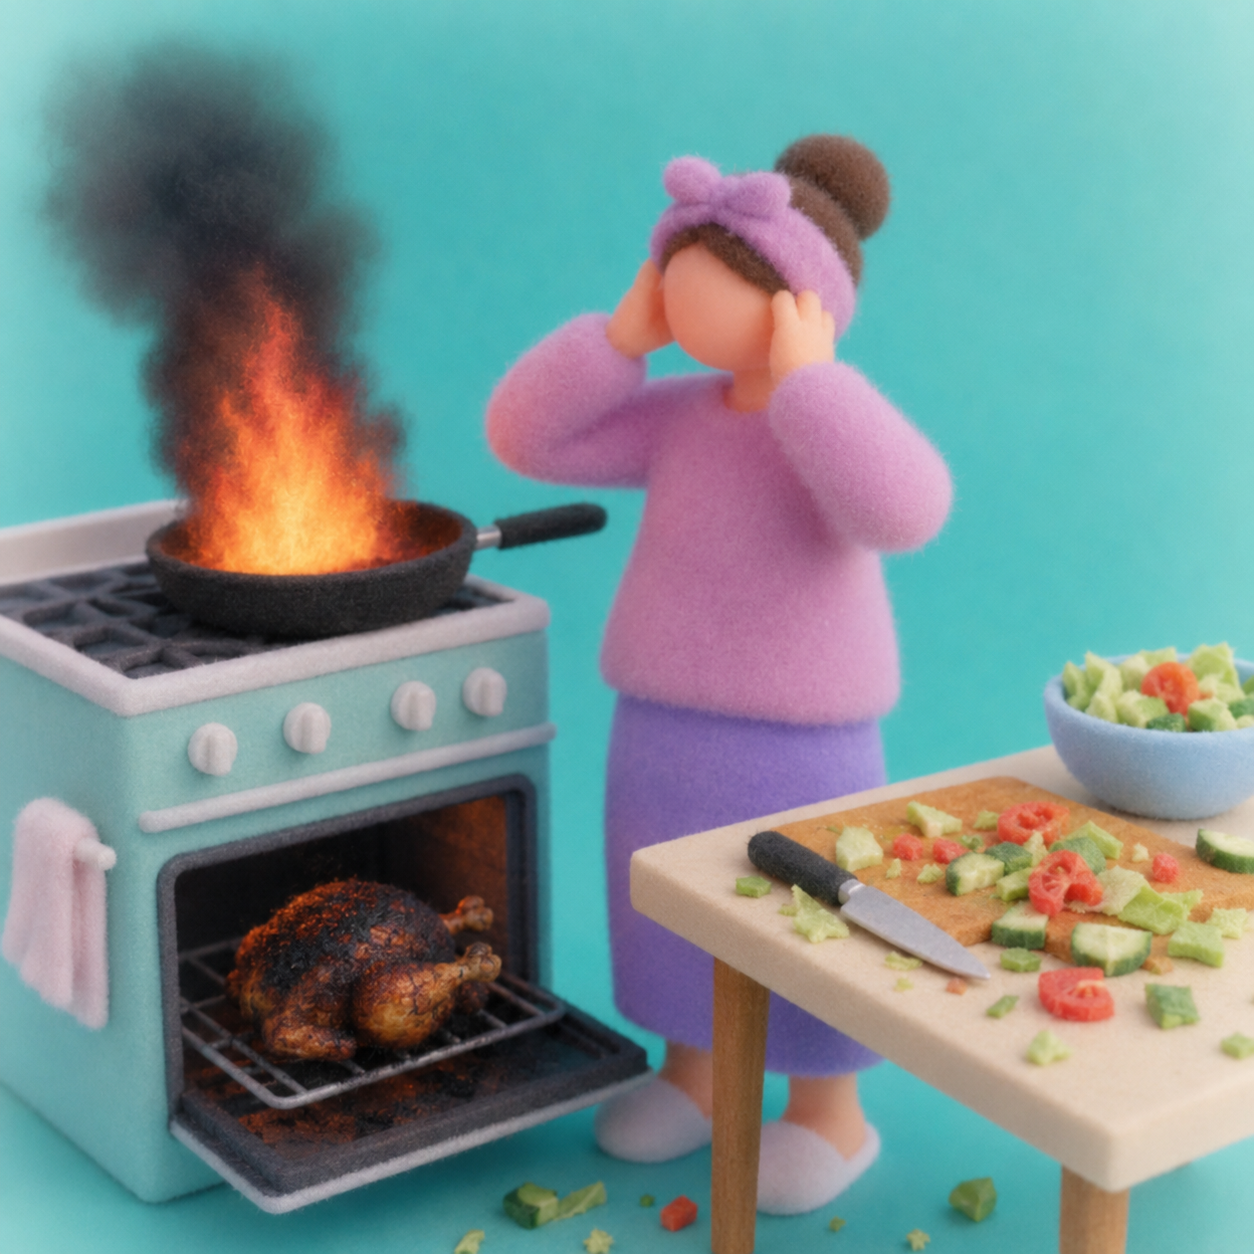
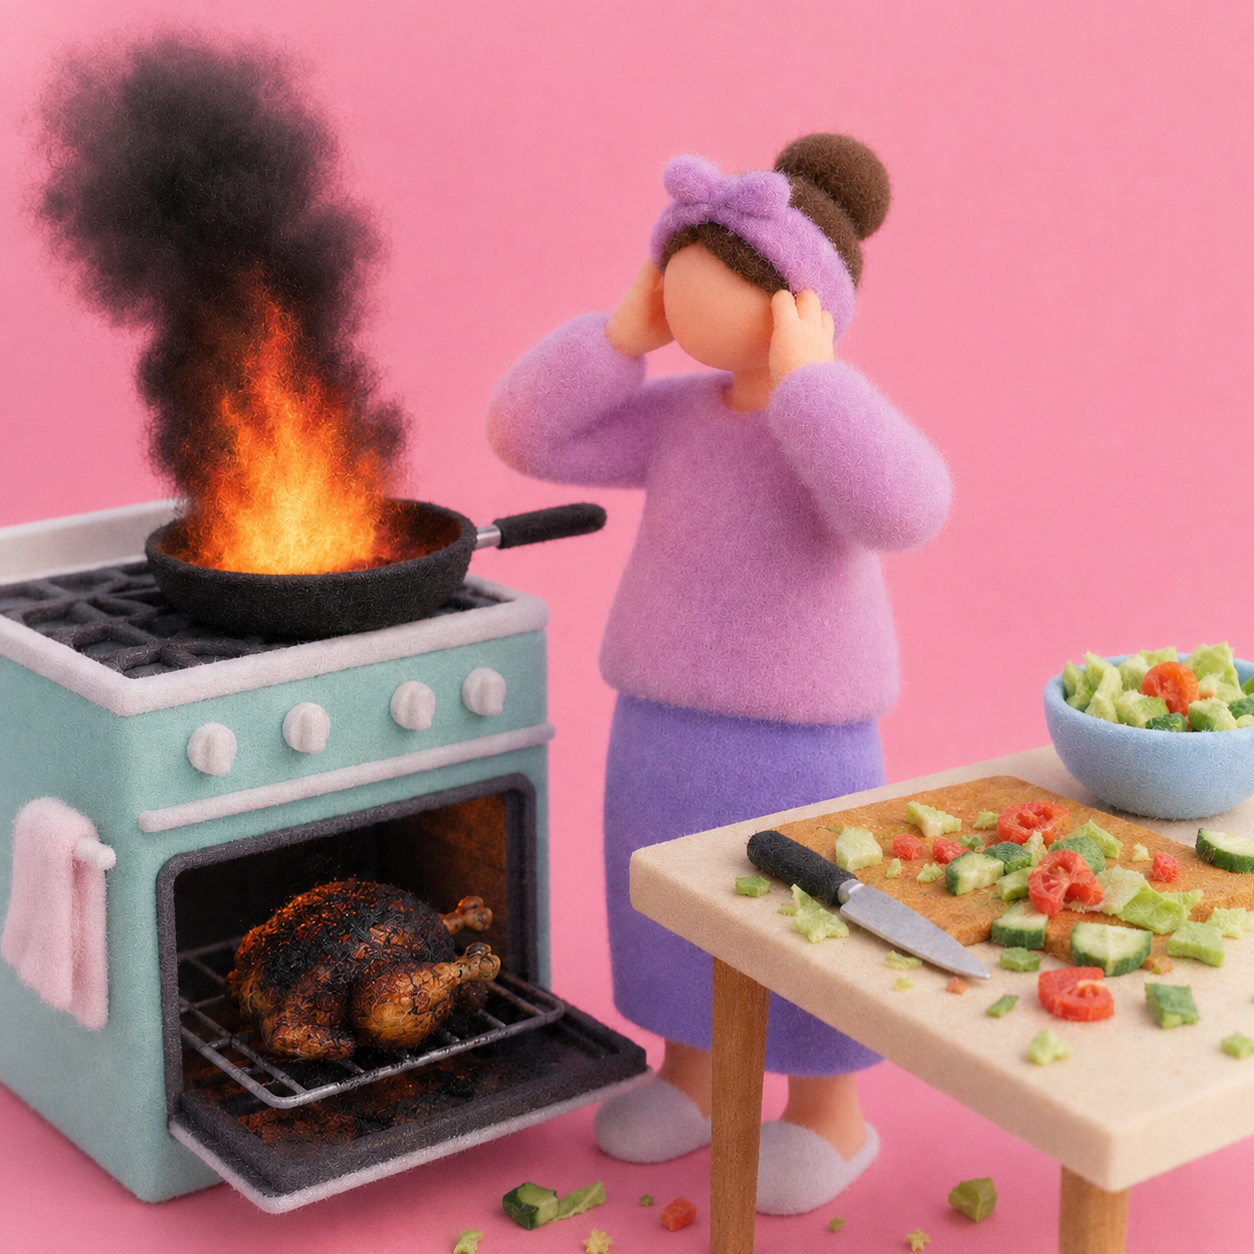
guides covers added

diff --git a/src/pages/guides/guides_covers.css b/src/pages/guides/guides_covers.css
@@ -138,24 +138,45 @@
 .druzya-vo-vzroslom-vozraste {
   background-image: url(../../images/guides/druzya-vo-vzroslom-vozraste.png);
 }
-.oformlenie-inn {
-  background-image: url(../../images/guides/oformlenie-inn.png);
+.byudzhet-na-pereezd-puteshestvie-ili-krupnuyu-pokupku {
+  background-image: url(../../images/guides/byudzhet-na-pereezd-puteshestvie-ili-krupnuyu-pokupku.png);
 }
-.oformlenie-inn {
-  background-image: url(../../images/guides/oformlenie-inn.png);
+.kak-vesti-byudzhet {
+  background-image: url(../../images/guides/kak-vesti-byudzhet.png);
 }
-.oformlenie-inn {
-  background-image: url(../../images/guides/oformlenie-inn.png);
+.kreditka-bez-procentov {
+  background-image: url(../../images/guides/kreditka-bez-procentov.png);
 }
-.oformlenie-inn {
-  background-image: url(../../images/guides/oformlenie-inn.png);
+.moshenniki-v-internete {
+  background-image: url(../../images/guides/moshenniki-v-internete.png);
 }
-.oformlenie-inn {
-  background-image: url(../../images/guides/oformlenie-inn.png);
+.chitaem-vypisku-po-karte {
+  background-image: url(../../images/guides/chitaem-vypisku-po-karte.png);
 }
-.oformlenie-inn {
-  background-image: url(../../images/guides/oformlenie-inn.png);
+.kak-nachat-otkladyvat {
+  background-image: url(../../images/guides/kak-nachat-otkladyvat.png);
 }
-.oformlenie-inn {
-  background-image: url(../../images/guides/oformlenie-inn.png);
+.pervaya-debetovaya-karta {
+  background-image: url(../../images/guides/pervaya-debetovaya-karta.png);
+}
+.kak-poschitat-svoj-realnyj-dohod-v-chas {
+  background-image: url(../../images/guides/kak-poschitat-svoj-realnyj-dohod-v-chas.png);
+}
+.kak-vybrat-kvartiru-i-ne-pozhalet-cherez-mesyac {
+  background-image: url(../../images/guides/kak-vybrat-kvartiru-i-ne-pozhalet-cherez-mesyac.png);
+}
+.oplachivaem-kommunalku-onlajn {
+  background-image: url(../../images/guides/oplachivaem-kommunalku-onlajn.png);
+}
+.bytovaya-himiya {
+  background-image: url(../../images/guides/bytovaya-himiya.png);
+}
+.zima-v-kvartire {
+  background-image: url(../../images/guides/zima-v-kvartire.png);
+}
+.zavesti-pitomca {
+  background-image: url(../../images/guides/zavesti-pitomca.png);
+}
+.sdacha-kvartiry-v-arendu {
+  background-image: url(../../images/guides/sdacha-kvartiry-v-arendu.png);
 }

diff --git a/src/pages/guides/guides_pages/byudzhet-na-pereezd-puteshestvie-ili-krupnuyu-pokupku.html b/src/pages/guides/guides_pages/byudzhet-na-pereezd-puteshestvie-ili-krupnuyu-pokupku.html
@@ -1,0 +1,34 @@
+<!DOCTYPE html>
+<html lang="ru">
+<head>
+  <analitics></analitics>
+  <meta charset="UTF-8">
+  <meta name="viewport" content="width=device-width, initial-scale=1.0">
+  <title>Easily — Бюджет на переезд, путешествие или крупную покупку</title>
+  <meta name="description" content="Разберем на примерах, как считать правильно, на чем можно сэкономить без ущерба и как вообще подружить финансовую подушку с конкретной целью.">
+  <meta property="og:title" content="Easily — Бюджет на переезд, путешествие или крупную покупку">
+  <meta property="og:description" content="Разберем на примерах, как считать правильно, на чем можно сэкономить без ущерба и как вообще подружить финансовую подушку с конкретной целью.">
+  <meta name="twitter:title" content="Easily — Бюджет на переезд, путешествие или крупную покупку">
+  <meta name="twitter:description" content="Разберем на примерах, как считать правильно, на чем можно сэкономить без ущерба и как вообще подружить финансовую подушку с конкретной целью.">
+  <meta property="og:type" content="website">
+  <meta property="og:image" content="https://raw.githubusercontent.com/HSEADC/easily/refs/heads/main/src/images/meta_cover.webp">
+  <meta property="og:image:width" content="1200">
+  <meta property="og:image:height" content="630">
+  <meta property="og:site_name" content="Easily">
+  <meta property="og:locale" content="ru_RU">
+  <meta name="twitter:card" content="summary_large_image">
+  <meta name="twitter:image" content="https://raw.githubusercontent.com/HSEADC/easily/refs/heads/main/src/images/meta_cover.webp">
+  <link rel="icon" type="image/svg+xml" href="../../../images/logo.svg">
+  <link rel="canonical" href="https://easily.adc.ac/">
+</head>
+<body>
+  <headerPartial></headerPartial>
+
+  <main class="O_main">
+
+  </main>
+
+  <footerPartial></footerPartial>
+
+</body>
+</html>

diff --git a/src/pages/guides/guides_pages/kak-poschitat-svoj-realnyj-dohod-v-chas.html b/src/pages/guides/guides_pages/kak-poschitat-svoj-realnyj-dohod-v-chas.html
@@ -1,0 +1,34 @@
+<!DOCTYPE html>
+<html lang="ru">
+<head>
+  <analitics></analitics>
+  <meta charset="UTF-8">
+  <meta name="viewport" content="width=device-width, initial-scale=1.0">
+  <title>Easily — Как посчитать свой реальный доход в час</title>
+  <meta name="description" content="Вы думаете, что зарабатываете 60 000? А давайте проверим. Посчитайте свой реальный доход в час с учётом всех скрытых трат времени и поймите, сколько вы на самом деле стоите.">
+  <meta property="og:title" content="Easily — Как посчитать свой реальный доход в час">
+  <meta property="og:description" content="Вы думаете, что зарабатываете 60 000? А давайте проверим. Посчитайте свой реальный доход в час с учётом всех скрытых трат времени и поймите, сколько вы на самом деле стоите.">
+  <meta name="twitter:title" content="Easily — Как посчитать свой реальный доход в час">
+  <meta name="twitter:description" content="Вы думаете, что зарабатываете 60 000? А давайте проверим. Посчитайте свой реальный доход в час с учётом всех скрытых трат времени и поймите, сколько вы на самом деле стоите.">
+  <meta property="og:type" content="website">
+  <meta property="og:image" content="https://raw.githubusercontent.com/HSEADC/easily/refs/heads/main/src/images/meta_cover.webp">
+  <meta property="og:image:width" content="1200">
+  <meta property="og:image:height" content="630">
+  <meta property="og:site_name" content="Easily">
+  <meta property="og:locale" content="ru_RU">
+  <meta name="twitter:card" content="summary_large_image">
+  <meta name="twitter:image" content="https://raw.githubusercontent.com/HSEADC/easily/refs/heads/main/src/images/meta_cover.webp">
+  <link rel="icon" type="image/svg+xml" href="../../../images/logo.svg">
+  <link rel="canonical" href="https://easily.adc.ac/">
+</head>
+<body>
+  <headerPartial></headerPartial>
+
+  <main class="O_main">
+
+  </main>
+
+  <footerPartial></footerPartial>
+
+</body>
+</html>

diff --git a/src/pages/guides/guides_pages/kak-vybrat-kvartiru-i-ne-pozhalet-cherez-mesyac.html b/src/pages/guides/guides_pages/kak-vybrat-kvartiru-i-ne-pozhalet-cherez-mesyac.html
@@ -1,0 +1,34 @@
+<!DOCTYPE html>
+<html lang="ru">
+<head>
+  <analitics></analitics>
+  <meta charset="UTF-8">
+  <meta name="viewport" content="width=device-width, initial-scale=1.0">
+  <title>Easily — Как выбрать квартиру и не пожалеть через месяц</title>
+  <meta name="description" content="От транспортной доступности до следов тараканов — чек-лист для тех, кто хочет спать спокойно">
+  <meta property="og:title" content="Easily — Как выбрать квартиру и не пожалеть через месяц">
+  <meta property="og:description" content="От транспортной доступности до следов тараканов — чек-лист для тех, кто хочет спать спокойно">
+  <meta name="twitter:title" content="Easily — Как выбрать квартиру и не пожалеть через месяц">
+  <meta name="twitter:description" content="От транспортной доступности до следов тараканов — чек-лист для тех, кто хочет спать спокойно">
+  <meta property="og:type" content="website">
+  <meta property="og:image" content="https://raw.githubusercontent.com/HSEADC/easily/refs/heads/main/src/images/meta_cover.webp">
+  <meta property="og:image:width" content="1200">
+  <meta property="og:image:height" content="630">
+  <meta property="og:site_name" content="Easily">
+  <meta property="og:locale" content="ru_RU">
+  <meta name="twitter:card" content="summary_large_image">
+  <meta name="twitter:image" content="https://raw.githubusercontent.com/HSEADC/easily/refs/heads/main/src/images/meta_cover.webp">
+  <link rel="icon" type="image/svg+xml" href="../../../images/logo.svg">
+  <link rel="canonical" href="https://easily.adc.ac/">
+</head>
+<body>
+  <headerPartial></headerPartial>
+
+  <main class="O_main">
+
+  </main>
+
+  <footerPartial></footerPartial>
+
+</body>
+</html>

diff --git a/src/pages/guides/guidesData.js b/src/pages/guides/guidesData.js
@@ -57,6 +57,13 @@ export const guidesData = [
     link: "/pages/guides/guides_pages/kak-polzovatsya-lyubym-planerom-bez-fanatizma.html",
   },
   {
+    id: 57,
+    title: "Как выбрать квартиру и не пожалеть через месяц",
+    category: "home",
+    image: 'kak-vybrat-kvartiru-i-ne-pozhalet-cherez-mesyac',
+    link: "/pages/guides/guides_pages/kak-vybrat-kvartiru-i-ne-pozhalet-cherez-mesyac.html",
+  },
+  {
     id: 9,
     title: "Как пережить больничный без потери денег и нервов",
     category: "health",
@@ -370,6 +377,13 @@ export const guidesData = [
     link: "/pages/guides/guides_pages/recepty-vyzhivaniya.html",
   },
   {
+    id: 56,
+    title: "Как посчитать свой реальный доход в час",
+    category: "finance",
+    image: 'kak-poschitat-svoj-realnyj-dohod-v-chas',
+    link: "/pages/guides/guides_pages/kak-poschitat-svoj-realnyj-dohod-v-chas.html",
+  },
+  {
     id: 54,
     title: "Как проверить договор на типичные ловушки (без юриста)",
     category: "docs",
@@ -382,5 +396,12 @@ export const guidesData = [
     category: "career",
     image: 'kak-otvechat-na-vopros-rasskazhite-o-sebe',
     link: "/pages/guides/guides_pages/kak-otvechat-na-vopros-rasskazhite-o-sebe.html",
+  },
+  {
+    id: 55,
+    title: "Бюджет на переезд, путешествие или крупную покупку",
+    category: "finance",
+    image: 'byudzhet-na-pereezd-puteshestvie-ili-krupnuyu-pokupku',
+    link: "/pages/guides/guides_pages/byudzhet-na-pereezd-puteshestvie-ili-krupnuyu-pokupku.html",
   },
 ];

diff --git a/src/javascripts/searchData.js b/src/javascripts/searchData.js
@@ -65,6 +65,21 @@ export const articles = [
     url: 'https://easily.adc.ac/pages/guides/guides_pages/kak-otvechat-na-vopros-rasskazhite-o-sebe.html'
   },
   {
+    title: 'Как выбрать квартиру и не пожалеть через месяц',
+    description: 'От транспортной доступности до следов тараканов — чек-лист для тех, кто хочет спать спокойно',
+    url: 'https://easily.adc.ac/pages/guides/guides_pages/kak-vybrat-kvartiru-i-ne-pozhalet-cherez-mesyac.html'
+  },
+  {
+    title: 'Как посчитать свой реальный доход в час',
+    description: 'Вы думаете, что зарабатываете 60 000? А давайте проверим. Посчитайте свой реальный доход в час с учётом всех скрытых трат времени и поймите, сколько вы на самом деле стоите.',
+    url: 'https://easily.adc.ac/pages/guides/guides_pages/kak-poschitat-svoj-realnyj-dohod-v-chas.html'
+  },
+  {
+    title: 'Бюджет на переезд, путешествие или крупную покупку',
+    description: 'Разберем на примерах, как считать правильно, на чем можно сэкономить без ущерба и как вообще подружить финансовую подушку с конкретной целью.',
+    url: 'https://easily.adc.ac/pages/guides/guides_pages/byudzhet-na-pereezd-puteshestvie-ili-krupnuyu-pokupku.html'
+  },
+  {
     title: 'Как пройти собеседование, если трясутся коленки',
     description: 'Задача гайда — дать пошаговый план, как не развалиться в самый ответственный момент',
     url: 'https://easily.adc.ac/pages/guides/guides_pages/kak-projti-sobesedovanie-esli-tryasutsya-kolenki.html'

diff --git a/config/webpack.pages.js b/config/webpack.pages.js
@@ -191,9 +191,20 @@ createPage('./src/pages/articles/articles_pages/propiska-voenkomat-polis.html',
   createPage('./src/pages/guides/guides_pages/kak-iskat-rabotu-kogda-u-tebya-net-opyta.html',
     './pages/guides/guides_pages/kak-iskat-rabotu-kogda-u-tebya-net-opyta.html',
     ['main', 'guides', 'dropdown', 'searchReact']),
-  createPage('./src/pages/guides/guides_pages/kak-dogovoritsya-o-zarplate.html', './pages/guides/guides_pages/kak-dogovoritsya-o-zarplate.html', ['main', 'guides', 'dropdown', 'searchReact']),
+  createPage('./src/pages/guides/guides_pages/kak-dogovoritsya-o-zarplate.html',
+    './pages/guides/guides_pages/kak-dogovoritsya-o-zarplate.html',
+    ['main', 'guides', 'dropdown', 'searchReact']),
+    createPage('./src/pages/guides/guides_pages/kak-vybrat-kvartiru-i-ne-pozhalet-cherez-mesyac.html',
+    './pages/guides/guides_pages/kak-vybrat-kvartiru-i-ne-pozhalet-cherez-mesyac.html',
+    ['main', 'guides', 'dropdown', 'searchReact']),
+  createPage('./src/pages/guides/guides_pages/kak-poschitat-svoj-realnyj-dohod-v-chas.html',
+    './pages/guides/guides_pages/kak-poschitat-svoj-realnyj-dohod-v-chas.html',
+    ['main', 'guides', 'dropdown', 'searchReact']),
   createPage('./src/pages/guides/guides_pages/kak-otvechat-na-vopros-rasskazhite-o-sebe.html',
     './pages/guides/guides_pages/kak-otvechat-na-vopros-rasskazhite-o-sebe.html',
+    ['main', 'guides', 'dropdown', 'searchReact']),
+  createPage('./src/pages/guides/guides_pages/byudzhet-na-pereezd-puteshestvie-ili-krupnuyu-pokupku.html',
+    './pages/guides/guides_pages/byudzhet-na-pereezd-puteshestvie-ili-krupnuyu-pokupku.html',
     ['main', 'guides', 'dropdown', 'searchReact']),
   createPage('./src/pages/guides/guides_pages/kak-projti-sobesedovanie-esli-tryasutsya-kolenki.html',
     './pages/guides/guides_pages/kak-projti-sobesedovanie-esli-tryasutsya-kolenki.html',

diff --git a/config/webpack.common.js b/config/webpack.common.js
@@ -116,6 +116,9 @@ const paths = [
   '/pages/guides/guides_pages/vosstanovlenie-snils.html',
   '/pages/guides/guides_pages/dokumenty-na-nalogovyj-vychet.html',
   '/pages/guides/guides_pages/proverka-dogovora.html',
+  '/pages/guides/guides_pages/byudzhet-na-pereezd-puteshestvie-ili-krupnuyu-pokupku.html',
+  '/pages/guides/guides_pages/kak-poschitat-svoj-realnyj-dohod-v-chas.html',
+  '/pages/guides/guides_pages/kak-vybrat-kvartiru-i-ne-pozhalet-cherez-mesyac.html',
 
   '/pages/dictionary/dictionary.html',
   '/pages/styleguide/styleguide.html'